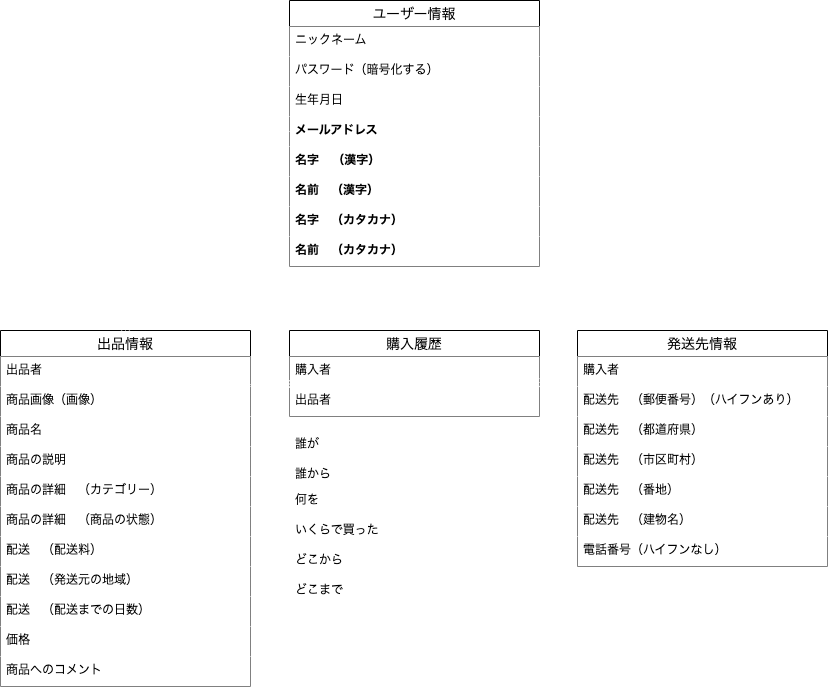
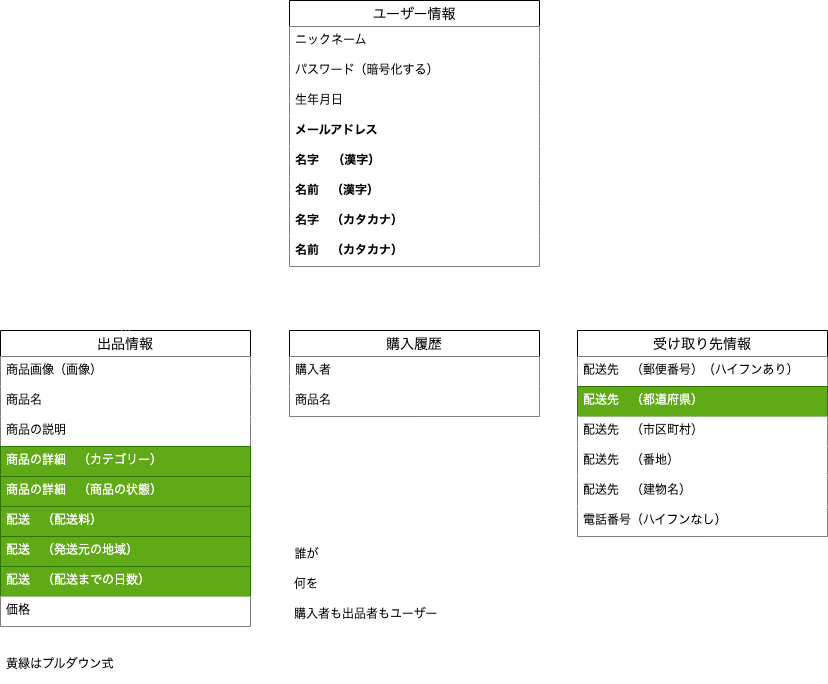
ER図の修正

diff --git a/README.md b/README.md
@@ -1,62 +1,63 @@
 # テーブル設計
 
-## users テーブル（ユーザー管理）（deviseを使う）
+## users テーブル（ユーザー情報）（deviseを使う）
 
-| Column                                     | Type       | Options                        |
-| ------------------------------------------ | ---------- | ------------------------------ |
-| nick_name                                  | string     | null: false                    |
-| email                                      | string     | unique: true ,default: ""      |
-| encrypted_password                         | string     | null: false ,default: ""       |
-| birth_day                                  | date       | null: false                    |
-| first_name_chinese_characters              | string     | null: false                    |
-| last_name_chinese_characters               | string     | null: false                    |
-| first_name_katakana                        | string     | null: false                    |
-| last_name_katakana                         | string     | null: false                    |
+| Column                                     | Type       | Options                                |
+| ------------------------------------------ | ---------- | -------------------------------------- |
+| nick_name                                  | string     | null: false                            |
+| email                                      | string     | null: false ,unique: true ,default: "" |
+| encrypted_password                         | string     | null: false ,default: ""               |
+| birth_day                                  | date       | null: false                            |
+| first_name                                 | string     | null: false                            |
+| last_name                                  | string     | null: false                            |
+| read_first                                 | string     | null: false                            |
+| read_last                                  | string     | null: false                            |
 ### Association
-- has_many : items                                
-- belongs_to : addresses
+- has_many : items     
+- has_many : orders                         
 
 
-## addresses テーブル（発送先情報）
 
-| Column                                     | Type       | Options                        |
-| ------------------------------------------ | ---------- | ------------------------------ |
-| buyer                                      | references | null: false, foreign_key: true |
-| post_code                                  | string     | null: false                    |
-| prefectures                                | string     | null: false                    |
-| municipalities                             | string     | null: false                    |
-| address                                    | string     | null: false                    |
-| building_name                              | string     | null: true                     |
-| phone_number                               | string     | null: false                    |
+## addresses テーブル（受け取り先情報）
+
+| Column                                     | Type       | Options                                |
+| ------------------------------------------ | ---------- | -------------------------------------- |
+| user                                       | references | null: false, foreign_key: true         |
+| post_code                                  | string     | null: false                            |
+| prefectures                                | string     | null: false                            |
+| municipalities                             | string     | null: false                            |
+| address                                    | string     | null: false                            |
+| building_name                              | string     | null: true                             |
+| phone_number                               | string     | null: false                            |
 ###  Association
-- has_many : items ,through: :orders
-- has_many : orders
+- belongs_to : orders
 
 
 ## orders テーブル（購入履歴）
 
-| Column                                     | Type       | Options                        |
-| ------------------------------------------ | ---------- | ------------------------------ |
-| buyer                                      | references | null: false, foreign_key: true |
-| seller                                     | references | null: false, foreign_key: true |
+| Column                                     | Type       | Options                                |
+| ------------------------------------------ | ---------- | -------------------------------------- |
+| user                                       | references | null: false, foreign_key: true         |
+| product_name                               | references | null: false, foreign_key: true         |
 ###  Association
-- belongs_to : addresses
+- belongs_to : users
 - belongs_to : items
+- has_one : orders
 
 
 ## items テーブル（出品情報）
 
-| Column                                     | Type       | Options                        |
-| ------------------------------------------ | ---------- | ------------------------------ |
-| seller                                     | references | null: false, foreign_key: true |
-| product_name                               | text       | null: false                    |
-| product_description                        | text       | null: false                    |
-| category_id                                | integer    | null: false                    |
-| condition                                  | text       | null: false                    |
-| delivery_charge                            | string     | null: false                    |
-| region_of_origin                           | string     | null: false                    |
-| days_to_ship                               | string     | null: false                    |
-| price                                      | integer    | null: false                    |
+| Column                                     | Type       | Options                                |
+| ------------------------------------------ | ---------- | -------------------------------------- |
+| user                                       | references | null: false, foreign_key: true         |
+| product_name                               | references | null: false, foreign_key: true         |
+| product_description                        | text       | null: false                            |
+| category_id                                | integer    | null: false                            |
+| condition_id                               | integer    | null: false                            |
+| contribution_id                            | integer    | null: false                            |
+| area_id                                    | integer    | null: false                            |
+| day_id                                     | integer    | null: false                            |
+| price                                      | integer    | null: false                            |
 ### Association
-- has_many : addresses ,through: :orders
-- has_many : orders
+- has_one : orders
+- belongs_to : users
